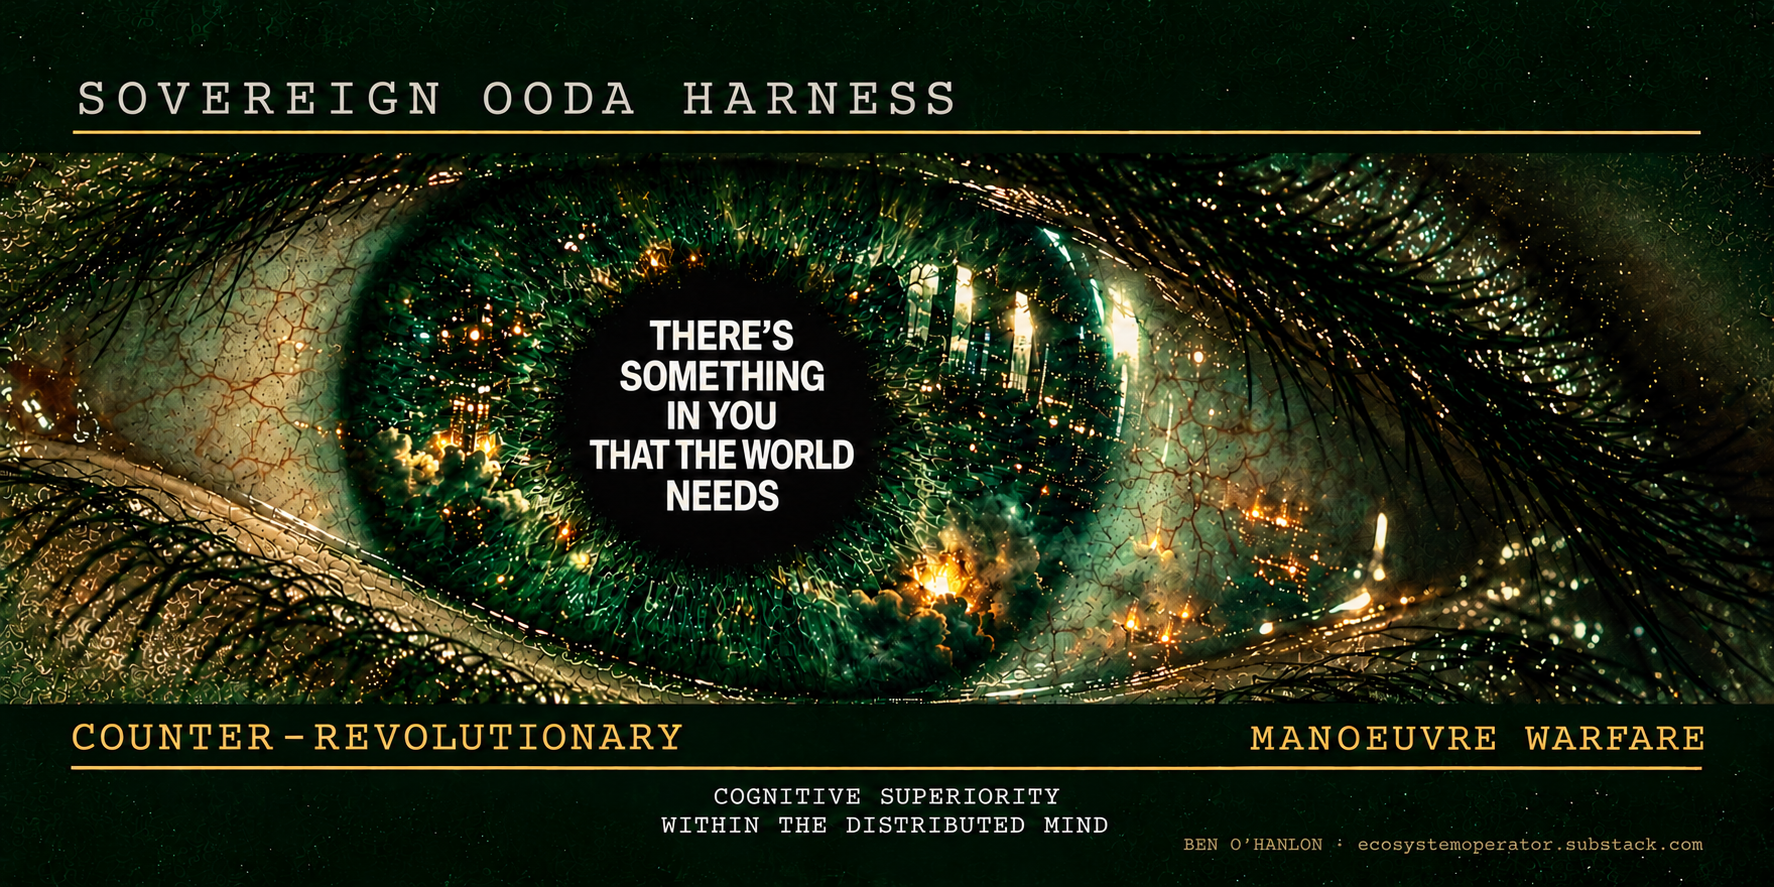
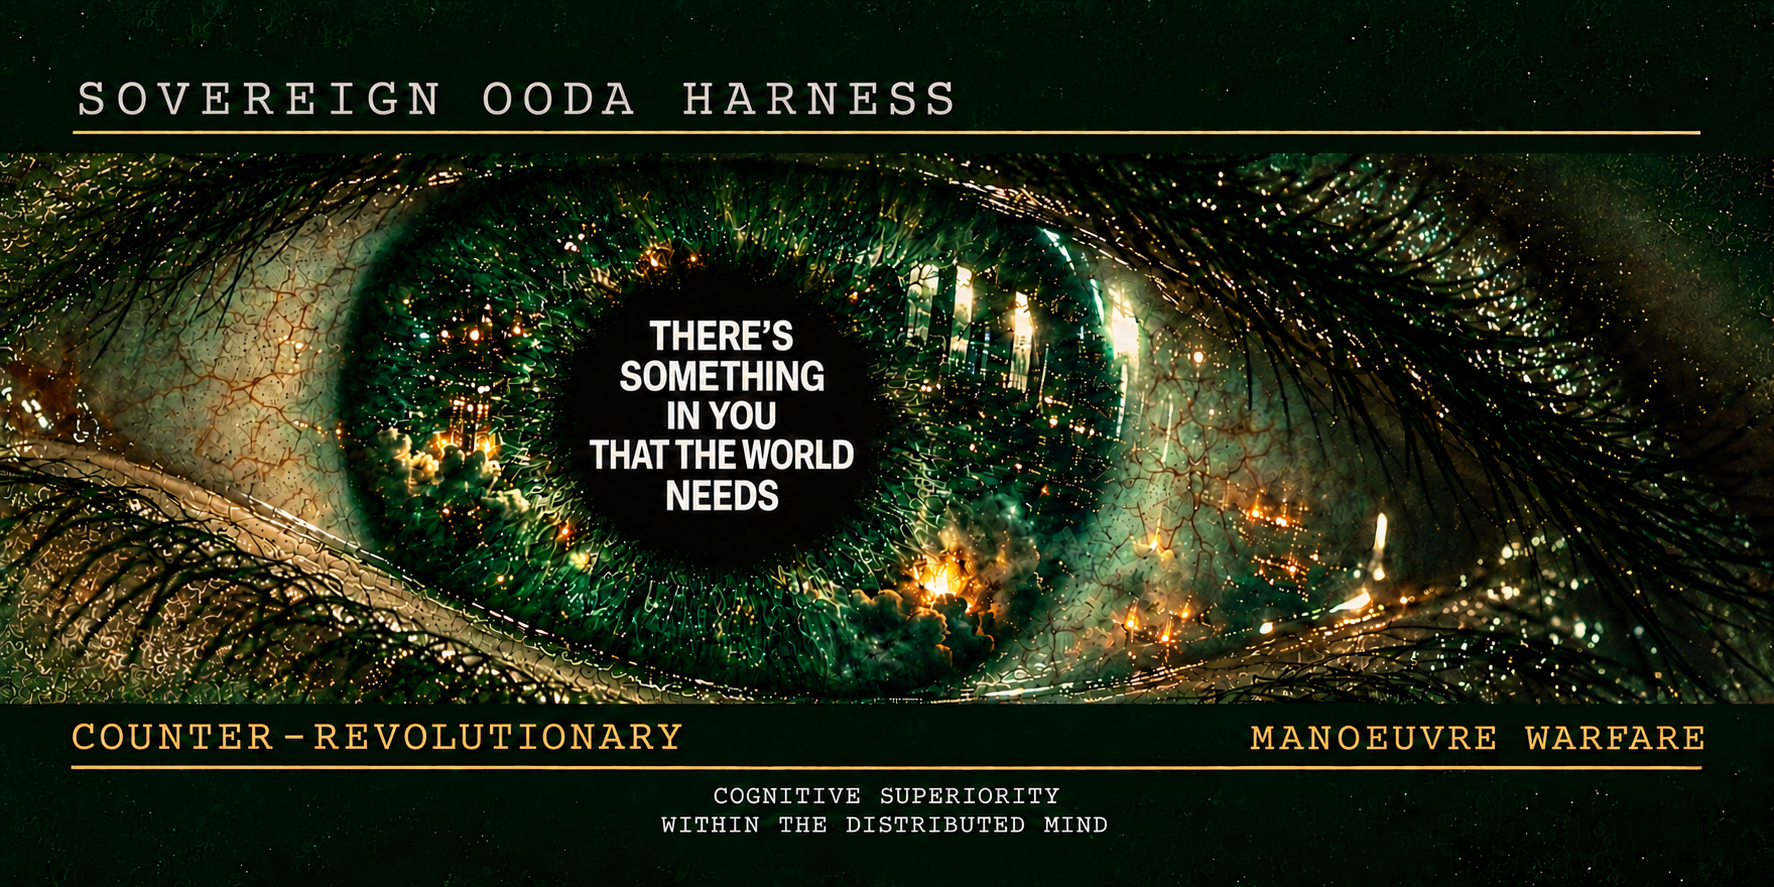
Remove cover watermark and update brand reference

diff --git a/brand/README.md b/brand/README.md
@@ -1,6 +1,6 @@
-# Sovereign OODA Harness � brand kit v1.1
+# Sovereign OODA Harness � brand kit v1.2
 
-Approved by Ben on 22 October 2026. Version 1.1 is the current benchmark: the credited cinematic eye, a softer title, a quieter credit and no full stop after NEEDS.
+Approved by Ben on 22 October 2026. Version 1.2 removes the added authorship line to restore the cover's balance. The softer title and the pupil statement ending NEEDS without a full stop remain.
 
 ## Start with the approved artwork
 
@@ -41,7 +41,6 @@ These hex values are working targets for editable materials. The approved photog
 | Antique gold | #C6A45D | Rules, strategic labels and warm light accents. |
 | Bone | #F1EBD7 | Pupil statement and cognitive footer. |
 | Quiet bone | #C9C5B5 | Softer product title. |
-| Muted gold | #8E815E | Discreet authorship credit. |
 
 Keep dark green dominant. Gold rules and labels are flat printed colour; gold reflections within the eye may glow naturally. Bone text stays clear against dark areas. Preserve the green-and-gold balance rather than shifting the whole image to orange, blue or cream.
 
@@ -53,21 +52,16 @@ Keep dark green dominant. Gold rules and labels are flat printed colour; gold re
 | Pupil statement | Helvetica Bold; Arial Bold or sans-serif fallback | Uppercase, compact five-line block, centred in pupil. |
 | Strategic labels | Courier New Bold; Courier or monospace fallback | Uppercase gold, left and right beneath the image. |
 | Cognitive footer | Courier New Bold; Courier or monospace fallback | Uppercase bone, two centred lines. |
-| Authorship credit | Courier New; Courier or monospace fallback | Small muted-gold line, right aligned below the cognitive footer. |
 
 The approved raster approximates these letterforms and has no editable text or embedded fonts. These are production choices for future live typesetting.
 
 Maintain this order of attention: personal statement and eye, product identity, strategic labels, cognitive footer. Check real display size; use live type when exact wording and spacing are critical.
 
-## Authorship credit
+## Attribution
 
-The image carries its own origin and a public destination:
+The approved cover has no embedded author name, handle, URL, signature or watermark. Keep origin credit in accompanying text and asset metadata, preserving the image's visual balance.
 
-```text
-BEN O�HANLON � ecosystemoperator.substack.com
-```
-
-Keep this credit in the image itself, so saved or reposted copies remain traceable. Use a subdued warm gold on the lower-right dark margin, with its own baseline below the cognitive footer. Align the right edge with the main text/rule margin. Keep it readable at the 1280 � 640 export size, while the pupil message stays brightest. The product title is quieter warm bone; do not fade the central statement.
+Creator: Ben O�Hanlon. Public destination: [The Ecosystem Operator](https://ecosystemoperator.substack.com/). The README already carries the project's creator and publication links.
 
 ## Canonical cover copy
 
@@ -107,7 +101,7 @@ Retain the hyphen in COUNTER-REVOLUTIONARY and the British spelling MANOEUVRE: M
 
 The approved cover is 2:1. The eye image reaches the canvas edges; title, rules and lower text sit within approximately 4% horizontal margins. The photographic band occupies roughly 60% of the height. These are matching guides, not a substitute for the actual artwork.
 
-The title sits above a thin gold rule. The eye fills the middle. Gold strategic labels sit beneath it, followed by a second gold rule and a two-line bone footer. The pupil is left of the canvas centre and contains the personal statement. The subdued credit sits on its own lower-right baseline beneath the main footer.
+The title sits above a thin gold rule. The eye fills the middle. Gold strategic labels sit beneath it, followed by a second gold rule and a two-line bone footer. The pupil is left of the canvas centre and contains the personal statement.
 
 | Asset | Dimensions | Use |
 | --- | --- | --- |
@@ -118,7 +112,7 @@ The title sits above a thin gold rule. The eye fills the middle. Gold strategic 
 
 Resize proportionally. Do not stretch the eye or crop away text to make a different ratio. A future larger export from this master is an upscale, not additional source detail.
 
-GitHub recommends 1280 � 640 and a file below 1 MB for repository social previews. This is separate from README display sizing. Our JPEG is 497,082 bytes. [GitHub guidance](https://docs.github.com/en/repositories/managing-your-repositorys-settings-and-features/customizing-your-repository/customizing-your-repositorys-social-media-preview).
+GitHub recommends 1280 � 640 and a file below 1 MB for repository social previews. This is separate from README display sizing. Our JPEG is 495,146 bytes. [GitHub guidance](https://docs.github.com/en/repositories/managing-your-repositorys-settings-and-features/customizing-your-repository/customizing-your-repositorys-social-media-preview).
 
 ## Making coherent new artwork
 
@@ -146,6 +140,6 @@ Do not introduce generic HUD overlays, unrelated symbols, additional eyes, other
 
 Version 1.1 freezes the approved cinematic eye cover. The manifest records dimensions, byte counts and SHA-256 checksums for the packaged assets. The ZIP contains this guide, design tokens, reusable prompts, generation/edit prompts, the master and the GitHub export.
 
-The current master is assets/sovereign-ooda-cover-master.png. The README uses ../assets/sovereign-ooda-cover.jpg. Git history preserves earlier published versions; Notion retains the private approvals and exploration history.
+The current master is assets/sovereign-ooda-cover-master.png. The README uses ../assets/sovereign-ooda-cover.jpg. Git history preserves earlier published versions; Notion retains approvals and exploration history.
 
 GitHub carries the portable guide, tokens, reusable prompts, manifest, master and cover export. Notion retains the maintained approval record and exploration history. On a new accepted revision, update the portable files and record the accepted commit in Notion. Publication is separate from any runtime deployment.

diff --git a/brand/PROMPTS.md b/brand/PROMPTS.md
@@ -1,13 +1,13 @@
 # Sovereign OODA Harness � reusable artwork prompts
 
-Use these with the approved v1.1 image attached. The image is the main visual authority. These templates do not promise identical results from text alone.
+Use these with the approved v1.2 image attached. The image is the main visual authority. These templates do not promise identical results from text alone.
 
-For a full cover, preserve the softer warm-bone title, the complete pupil statement ending NEEDS without a full stop, and the subdued lower-right credit: BEN O�HANLON � ecosystemoperator.substack.com. Keep the credit legible while the pupil statement stays brightest.
+For a full cover, preserve the softer warm-bone title and the complete pupil statement ending NEEDS without a full stop. Keep the cover free of added author names, handles, URLs, signatures and watermarks. Origin credit belongs in accompanying text and metadata. Keep the pupil statement brightest.
 
 ## Adapt an existing asset
 
 ```text
-Use the attached Sovereign OODA Harness approved v1.1 cover as the edit target and visual benchmark.
+Use the attached Sovereign OODA Harness approved v1.2 cover as the edit target and visual benchmark.
 
 Task: [asset purpose and destination].
 Output: [width � height and aspect ratio].
@@ -24,7 +24,7 @@ Do not introduce a frontal whole almond eye, generic HUD graphics, other logos, 
 ## Create a related artwork
 
 ```text
-Create a new Sovereign OODA Harness artwork in the visual family of the attached approved v1.1 cover.
+Create a new Sovereign OODA Harness artwork in the visual family of the attached approved v1.2 cover.
 
 Purpose and audience: [brief].
 Format and size: [brief].
@@ -54,8 +54,6 @@ MANOEUVRE WARFARE
 
 COGNITIVE SUPERIORITY
 WITHIN THE DISTRIBUTED MIND
-
-BEN O�HANLON � ecosystemoperator.substack.com
 ```
 
 Check MANOEUVRE letter by letter: M A N O E U V R E. Keep the hyphen in COUNTER-REVOLUTIONARY.
